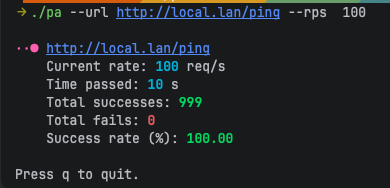
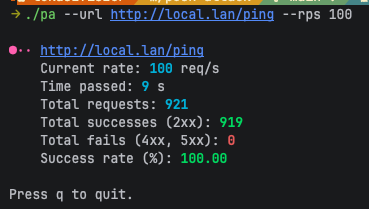
improve request counting, add total request counter

diff --git a/main.go b/main.go
@@ -5,6 +5,7 @@ import (
 	"net/http"
 	"os"
 	"strconv"
+	"sync/atomic"
 	"time"
 
 	"github.com/alexflint/go-arg"
@@ -21,24 +22,27 @@ type args struct {
 type attack struct {
 	url                  string
 	rps                  uint
-	totalSuccesses       *int64
-	totalFails           *int64
+	totalRequests        *uint64
+	totalSuccesses       *uint64
+	totalFails           *uint64
 	currentRate          *uint64
 	currentRateToDisplay *uint64
-	totalSeconds         *int64
+	totalSeconds         *uint64
 }
 
 func newAttack(url string, rps uint) attack {
 	var counter uint64
 	var current uint64
-	var succ int64
-	var fail int64
-	var sec int64
+	var total uint64
+	var succ uint64
+	var fail uint64
+	var sec uint64
 	return attack{
 		url:                  url,
 		rps:                  rps,
 		currentRate:          &counter,
 		currentRateToDisplay: &current,
+		totalRequests:        &total,
 		totalSuccesses:       &succ,
 		totalFails:           &fail,
 		totalSeconds:         &sec,
@@ -51,18 +55,19 @@ func runAttack(attack attack) {
 		select {
 		case <-ticker.C:
 			go func() {
-				*attack.currentRate++
+				atomic.AddUint64(attack.currentRate, 1)
+				atomic.AddUint64(attack.totalRequests, 1)
 				res, err := http.Get(attack.url)
 				if err != nil {
-					*attack.totalFails++
+					atomic.AddUint64(attack.totalFails, 1)
 					return
 				}
 				defer res.Body.Close()
 				if res.StatusCode >= 200 && res.StatusCode < 300 {
-					*attack.totalSuccesses++
+					atomic.AddUint64(attack.totalSuccesses, 1)
 				}
 				if res.StatusCode >= 400 {
-					*attack.totalFails++
+					atomic.AddUint64(attack.totalFails, 1)
 				}
 			}()
 		}
@@ -156,9 +161,10 @@ func (m model) View() string {
 
 	s := fmt.Sprint("\n", m.spin.View(), " ", m.attack.url)
 	s += fmt.Sprint("\n    Current rate: ", formatUInt(*m.attack.currentRateToDisplay, "#00A5D4"), " req/s")
-	s += fmt.Sprintf("\n    Time passed: %s s", formatInt(*m.attack.totalSeconds, "#00A5D4"))
-	s += fmt.Sprintf("\n    Total successes: %s", formatInt(*m.attack.totalSuccesses, "#00CC3E"))
-	s += fmt.Sprintf("\n    Total fails: %s", formatInt(*m.attack.totalFails, "#CC0000"))
+	s += fmt.Sprintf("\n    Time passed: %s s", formatUInt(*m.attack.totalSeconds, "#00A5D4"))
+	s += fmt.Sprint("\n    Total requests: ", formatUInt(*m.attack.totalRequests, "#00A5D4"))
+	s += fmt.Sprintf("\n    Total successes (2xx): %s", formatUInt(*m.attack.totalSuccesses, "#00CC3E"))
+	s += fmt.Sprintf("\n    Total fails (4xx, 5xx): %s", formatUInt(*m.attack.totalFails, "#CC0000"))
 
 	successRate := 0.0
 	var total = float64(*m.attack.totalSuccesses + *m.attack.totalFails)

diff --git a/README.md b/README.md
@@ -22,6 +22,7 @@ $ ./pa --url http://local.lan/ping --rps 100
 - Real-time, colored statistics:
   - Current requests per second (RPS)
   - Time passed since start
+  - Total requests
   - Total successful requests (`2xx` status codes)
   - Total failed requests (network errors or `4xx`/`5xx` status codes)
   - Percentage of successful requests
